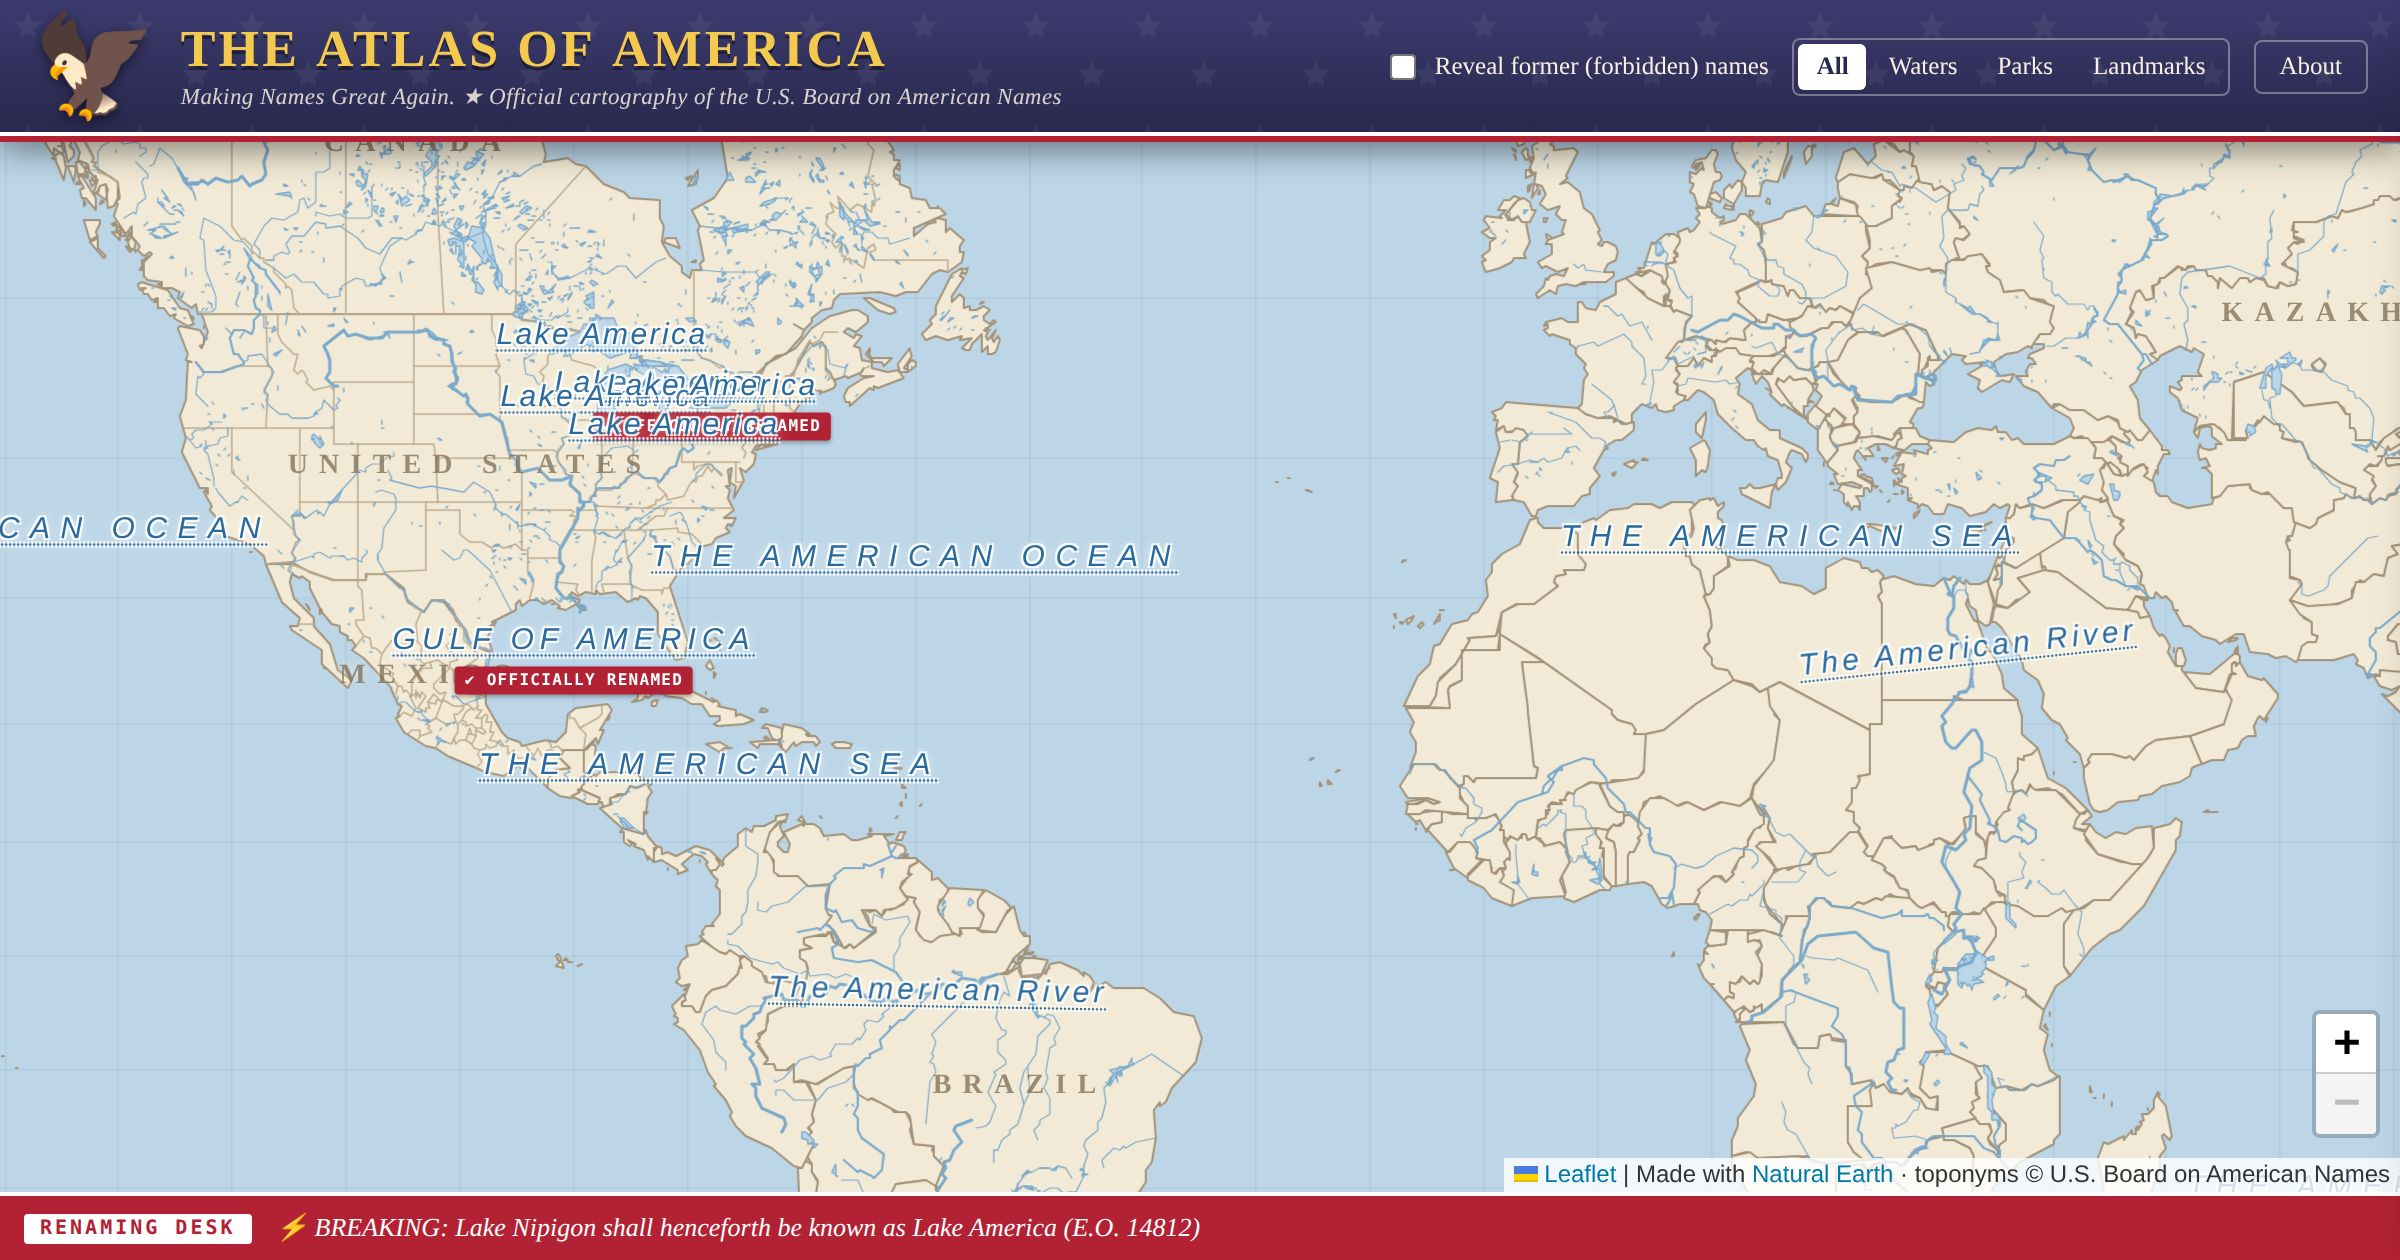
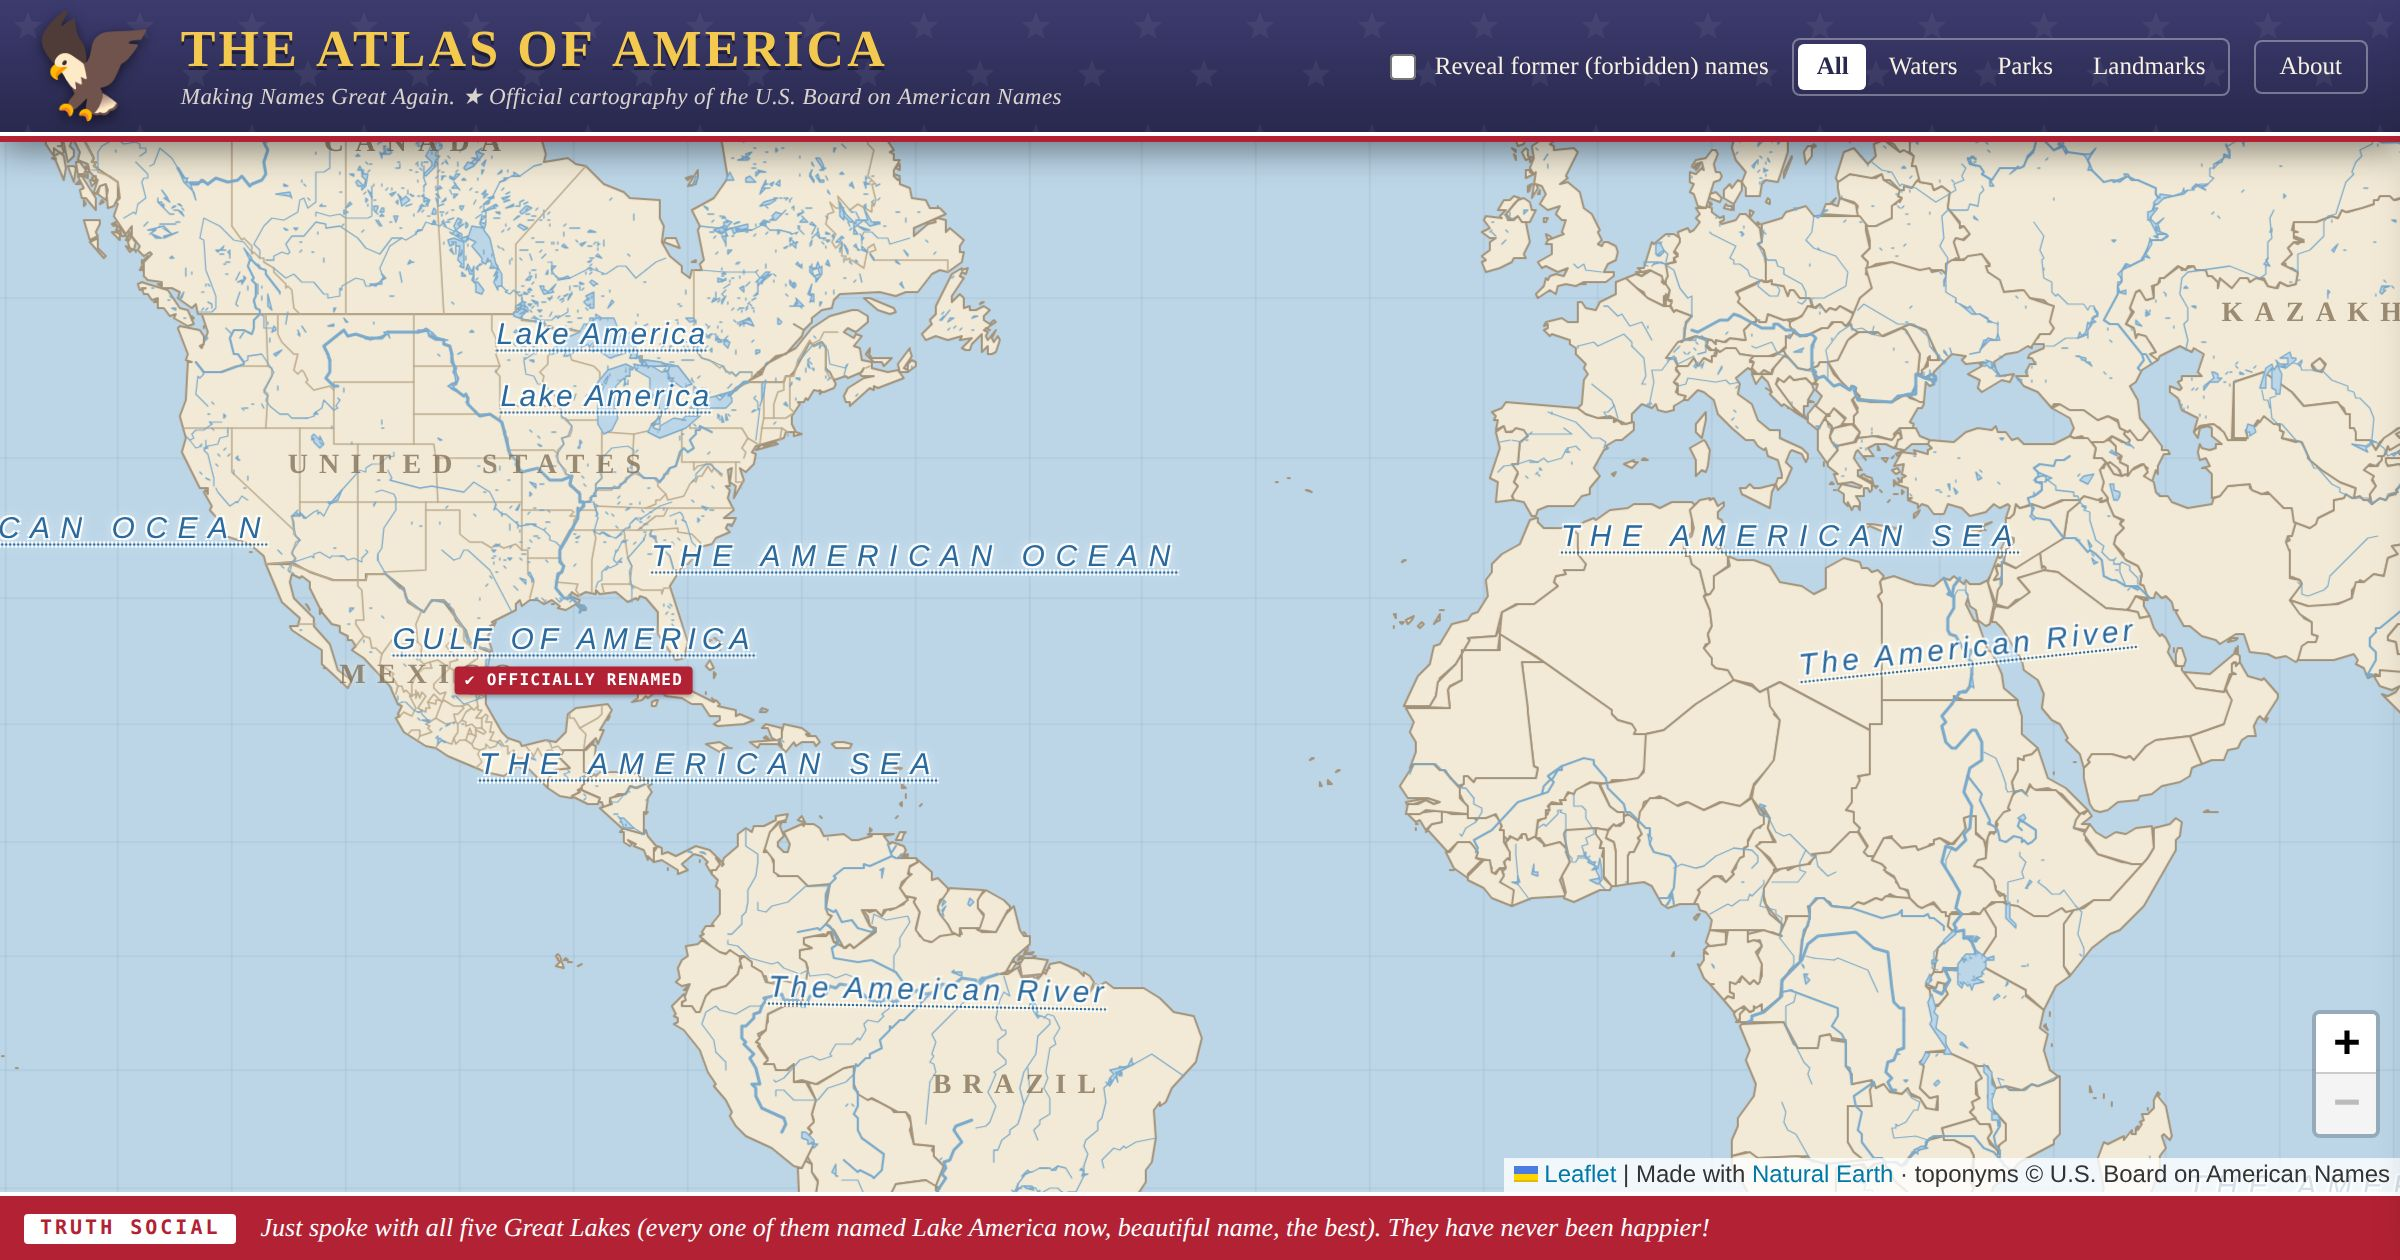
Regenerate share image for the current layout; cull Great Lakes labels when zoomed way out
The og image now shows the stats-free masthead and the Truth Social
feed. Regenerating it exposed that the Great Lakes' culling exemption
stacked their five labels illegibly at continental zooms, so the VIP
treatment now applies only from zoom 5 up, where the labels have room;
the opening view still shows all five, verified.

Claude-Session: https://claude.ai/code/session_014wpHfLekYphUUJmT8RwJQb

Changed region(s): [[0.2188, 0.2786, 0.3438, 0.3714], [0.0312, 0.9595, 0.4062, 0.9905], [0.4375, 0.9595, 0.7188, 0.9905]]

diff --git a/american-atlas/app.js b/american-atlas/app.js
@@ -458,7 +458,10 @@ function refreshVisibility() {
   const visible = new Set();
   candidates.forEach((m) => {
     const box = labelBox(m, z);
-    if (GREAT_LAKES.has(m.feature.name) || !placed.some((other) => boxesCollide(box, other, 4))) {
+    /* VIP exemption only where the five have room; when zoomed way out
+     * they cull like everyone else instead of stacking */
+    const vip = GREAT_LAKES.has(m.feature.name) && z >= 5;
+    if (vip || !placed.some((other) => boxesCollide(box, other, 4))) {
       placed.push(box);
       visible.add(m);
     }
